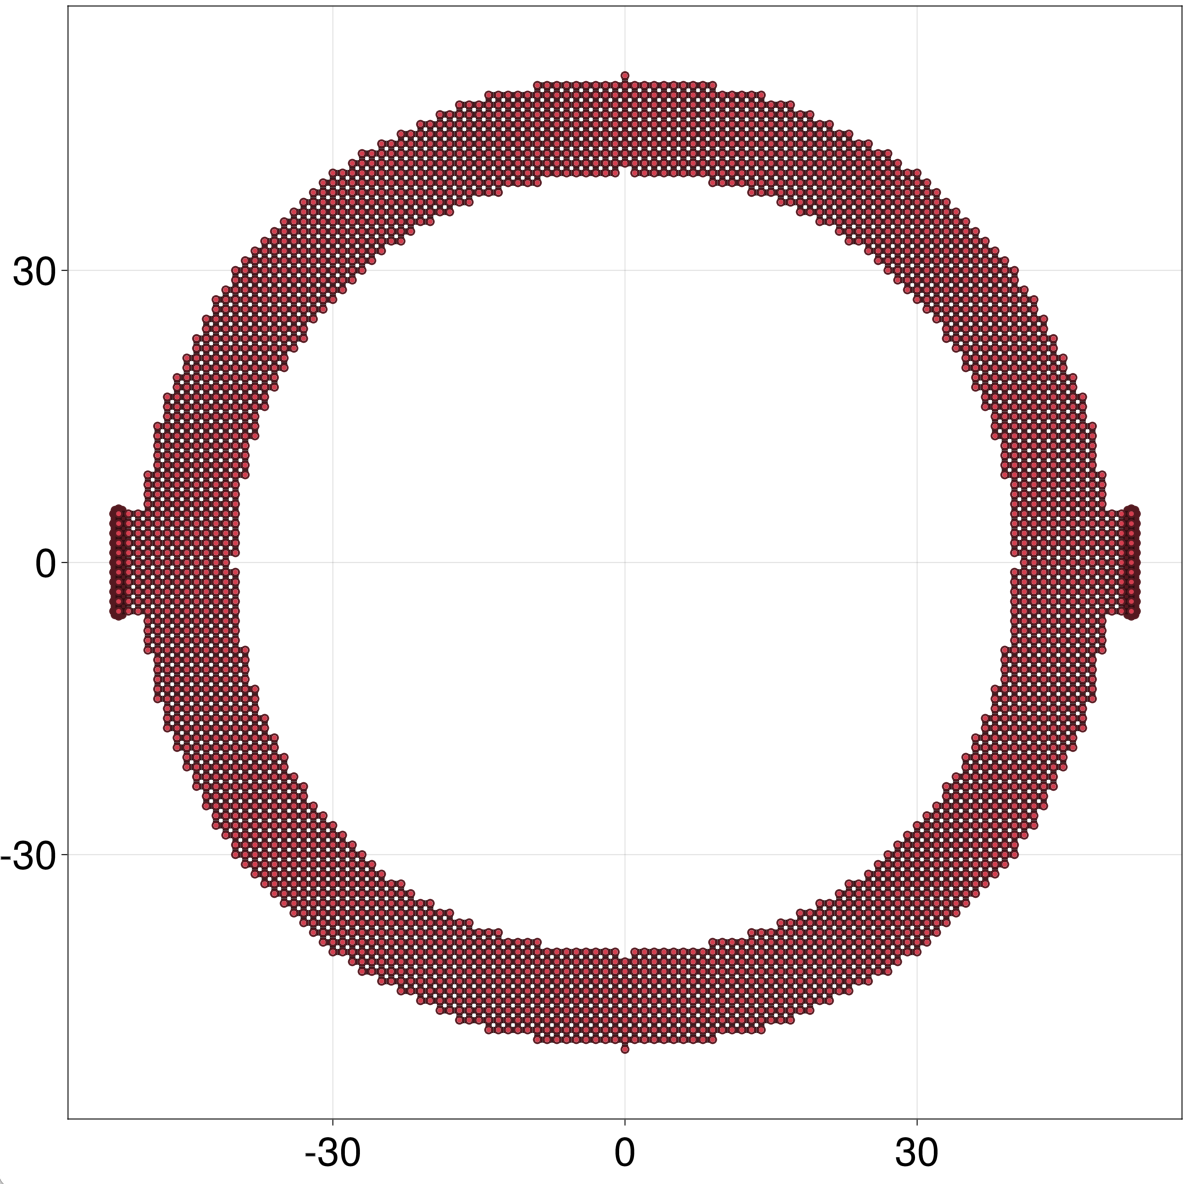
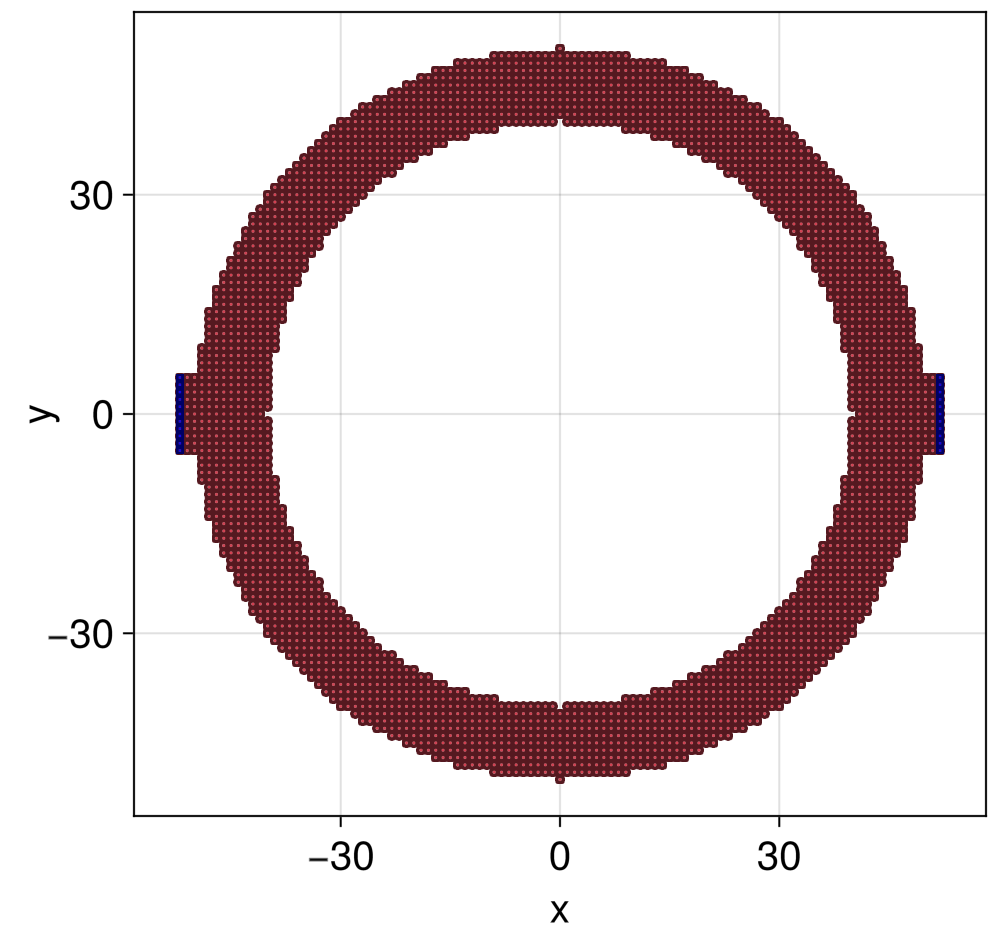
fix 1D and green_boundingbox, add boxes over boundary sites,

diff --git a/docs/src/tutorial/greenfunctions.md b/docs/src/tutorial/greenfunctions.md
@@ -191,6 +191,8 @@ julia> qplot(g, children = (; selector = siteselector(; cells = 1:5), sitecolor 
 
 Note that since we did not specify the `solver` in `greenfunction`, the `L=0` default `GS.SparseLU()` was taken.
 
+We can also visualize `glead`, which is defined on a 1D lattice with a boundary. Boundary cells are shown by default in red
+
 !!! tip "The GreenFunction <-> AbstractHamiltonian relation"
     Its important un appreciate that a `g::GreenFunction` represents the retarded Green function between sites in a given `AbstractHamiltonian`, but not on sites of the coupled `AbstractHamiltonians` of its attached self-energies. Therefore, `gcentral` above cannot yield observables in the leads (blue sites above), only on the red sites. To obtain observables in a given lead, its `GreenFunction` must be constructed, with an attached self-energy coming from the central region plus the other three leads.
 

diff --git a/docs/src/tutorial/observables.md b/docs/src/tutorial/observables.md
@@ -247,7 +247,7 @@ Integrator: Complex-plane integrator
     Contact                 : 1
     Number of phase shifts  : 0
 
-julia> qplot(g)
+julia> qplot(g, children = (; sitecolor = :blue))
 ```
 ```@raw html
 <img src="../../assets/josephson_lat.png" alt="Josephson junction" width="400" class="center"/>
